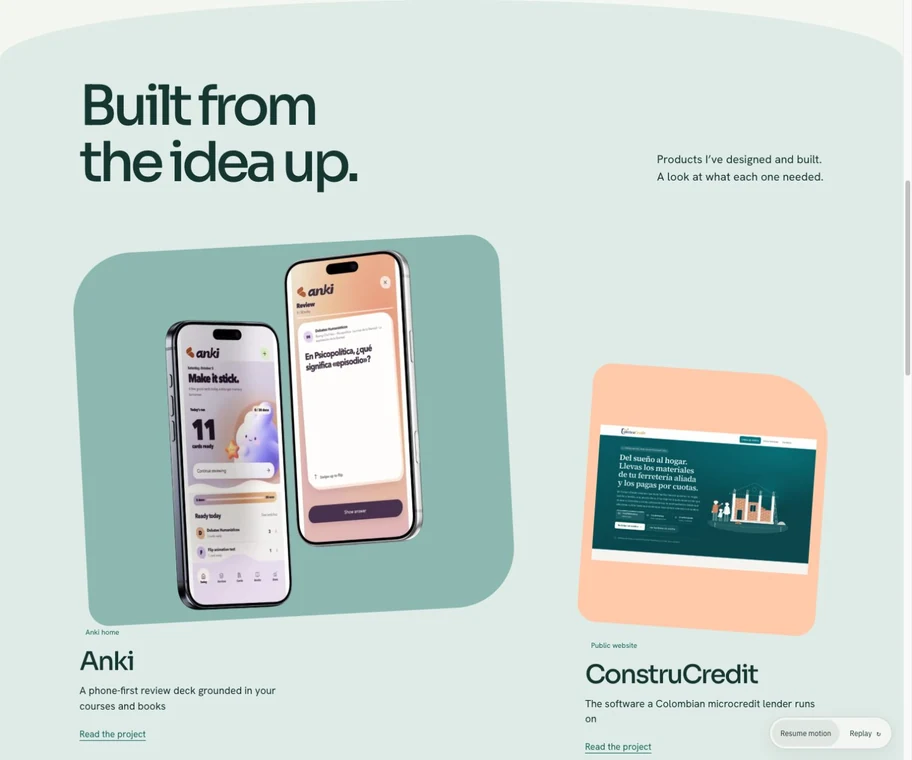
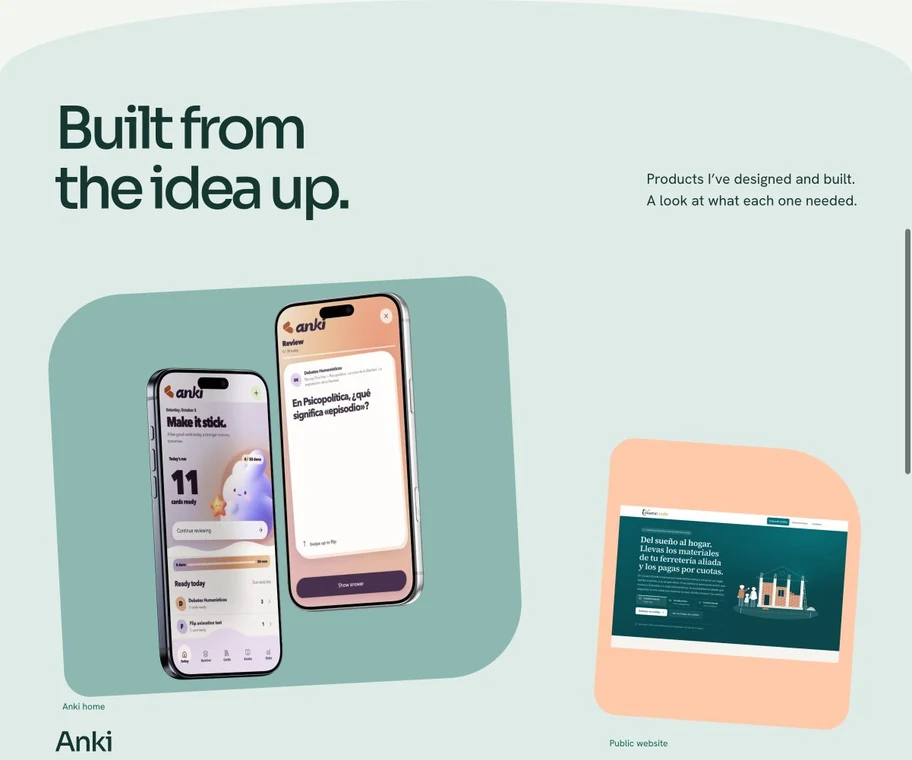
fix(mockups): use the corrected native paired phone export

diff --git a/next.config.ts b/next.config.ts
@@ -5,7 +5,9 @@ const nextConfig: NextConfig = {
     localPatterns: [
       { pathname: "/**", search: "" },
       { pathname: "/mockups/anki-app/**", search: "?v=mobile-edge-1" },
+      { pathname: "/mockups/anki-app/paired-phones.webp", search: "?v=paired-export-2" },
       { pathname: "/mockups/body-previews/**", search: "?v=mobile-edge-1" },
+      { pathname: "/mockups/body-previews/**", search: "?v=paired-export-2" },
       { pathname: "/mockups/project-previews/**", search: "?v=mobile-edge-1" },
     ],
   },

diff --git a/app/mockups/anki-media.ts b/app/mockups/anki-media.ts
@@ -4,7 +4,7 @@ export const ankiMobileScreens = [
 ] as const;
 
 export const ankiAppMockup = {
-  src: "/mockups/anki-app/paired-phones.webp?v=mobile-edge-1",
+  src: "/mockups/anki-app/paired-phones.webp?v=paired-export-2",
   width: 1450,
   height: 2000,
   alt: "Anki home and review screens in two iPhones",
